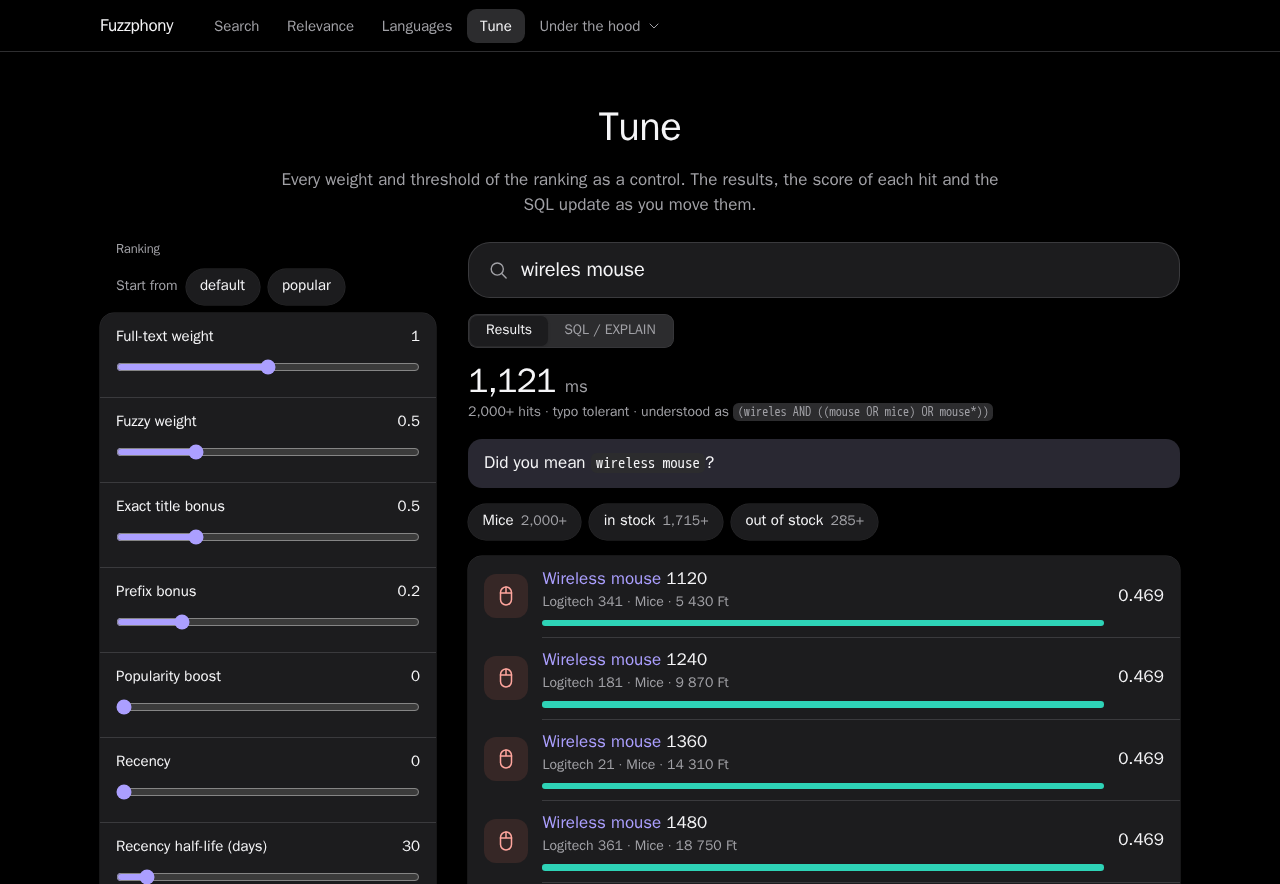
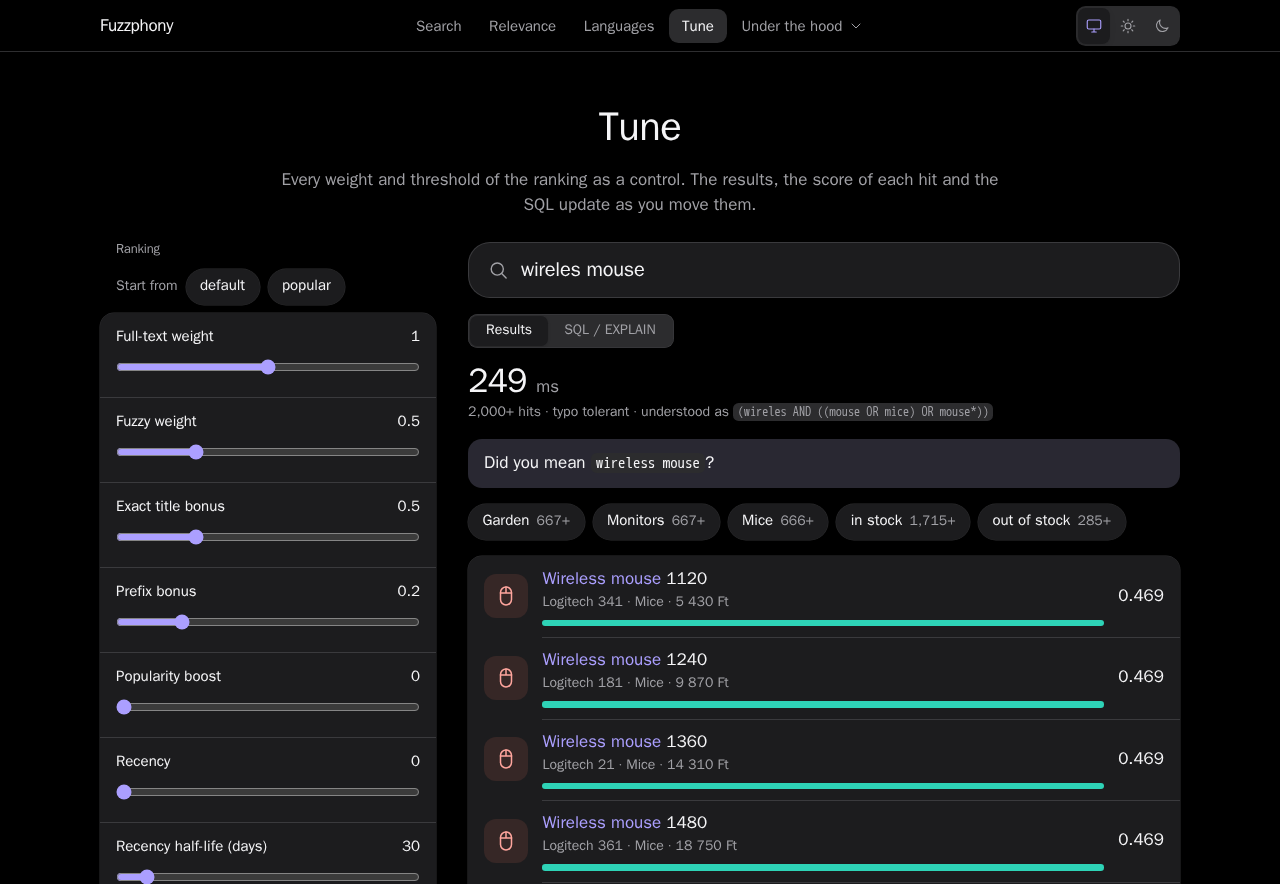
Docs: screenshots regenerated on the 500 000-row stack (centred menu, colour switch, Why lines on Relevance)

diff --git a/docs/screenshots.md b/docs/screenshots.md
@@ -1,7 +1,9 @@
 # Screenshots
 
 What the [demo](../demo/README.md) looks like: a Symfony app on a seeded catalogue of 500 000 products, run with
-`docker compose up --build` in the `demo` folder. Back to the [README](../README.md).
+`docker compose up --build` in the `demo` folder. The links of the top menu are centred on the page, the three buttons at the right of the bar
+choose the colour scheme (System, Light, Dark; the pictures were taken in the dark scheme), and a footer with the Fuzzphony version and links ends every page.
+Back to the [README](../README.md).
 
 ## Search
 
@@ -34,9 +36,10 @@ going on inside: the configuration wizard, the benchmark, the doctor report, obs
 
 Why a search finds what was meant. Ready-made examples sit in three columns: how far a typo may stray by the length of the
 word (`mouse` is not `monitor`), which words mean the same, and what "did you mean" suggests. Below, the results of the
-default rule (the similarity a word needs depends on its length) stand next to the flat 0.3 of earlier versions.
+default rule (the similarity a word needs depends on its length) stand next to the flat 0.3 of earlier versions. Under every row a "Why" line says which field matched and
+how: here the rows only the flat rule finds are `Tefal` products, found through the brand because `tefal` and `tv` share one trigram (similarity 0.33).
 
-![Relevance: typo tolerance by word length, synonyms and "did you mean", with two rules side by side](image/relevance.png)
+![Relevance: typo tolerance by word length, synonyms and "did you mean", with two rules side by side and a Why line under every row](image/relevance.png)
 
 ## Languages
 
